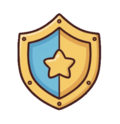
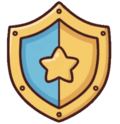
멀티플레이 아이템 이미지 조절 1

diff --git a/game.js b/game.js
@@ -2497,23 +2497,8 @@ class LobbyScene extends Phaser.Scene {
     );
 
     this.load.image(
-      "pen",
-      `${ASSET_SERVER}/images/cards/special/ongame_pen.png${VERSION}`,
-    );
-
-    this.load.image(
       "plus1",
       `${ASSET_SERVER}/images/cards/special/ongame_plus1.png${VERSION}`,
-    );
-
-    this.load.image(
-      "plus2",
-      `${ASSET_SERVER}/images/cards/special/ongame_plus2.png${VERSION}`,
-    );
-
-    this.load.image(
-      "not5",
-      `${ASSET_SERVER}/images/cards/special/ongame_not5.png${VERSION}`,
     );
 
     this.load.image(
@@ -17423,11 +17408,11 @@ class GameScene extends Phaser.Scene {
 
     // 새 특수카드 목록 (shop에 등록된 5종)
     const allSpecialCards = [
-      { id: 4, key: "lock", name: "자물쇠", cooldown: 12000 },
-      { id: 5, key: "shield", name: "방패", cooldown: 12000 },
-      { id: 6, key: "ink", name: "먹물", cooldown: 12000 },
-      { id: 7, key: "thief", name: "도둑", cooldown: 12000 },
-      { id: 8, key: "king", name: "왕", cooldown: 12000 },
+      { id: 4, key: "lock", icon: "lock", name: "자물쇠", cooldown: 12000 },
+      { id: 5, key: "shield", icon: "shield", name: "방패", cooldown: 12000 },
+      { id: 6, key: "ink", icon: "block", name: "먹물", cooldown: 12000 },
+      { id: 7, key: "thief", icon: "thief", name: "도둑", cooldown: 12000 },
+      { id: 8, key: "king", icon: "king", name: "왕", cooldown: 12000 },
     ];
 
     // localStorage에서 보유한 특수카드 로드
@@ -17494,10 +17479,11 @@ class GameScene extends Phaser.Scene {
         const geometryMask = this.make.graphics().createGeometryMask(maskGraphics);
 
         let cardImg = null;
-        if (this.textures.exists(card.key)) {
+        const imageKey = card.icon || card.key;
+        if (this.textures.exists(imageKey)) {
           cardImg = this.add
-            .image(cardX, cardY - Math.round(cardSize * 0.06), card.key)
-            .setDisplaySize(cardSize * 1.25, cardSize * 1.25)  // 크기 증가: 0.95 → 1.15
+            .image(cardX, cardY - Math.round(cardSize * 0.06), imageKey)
+            .setDisplaySize(cardSize * 0.875, cardSize * 0.875)  // 크기 30% 감소: 1.25 → 0.875
             .setOrigin(0.5)
             .setDepth(101)
             .setScrollFactor(0)
